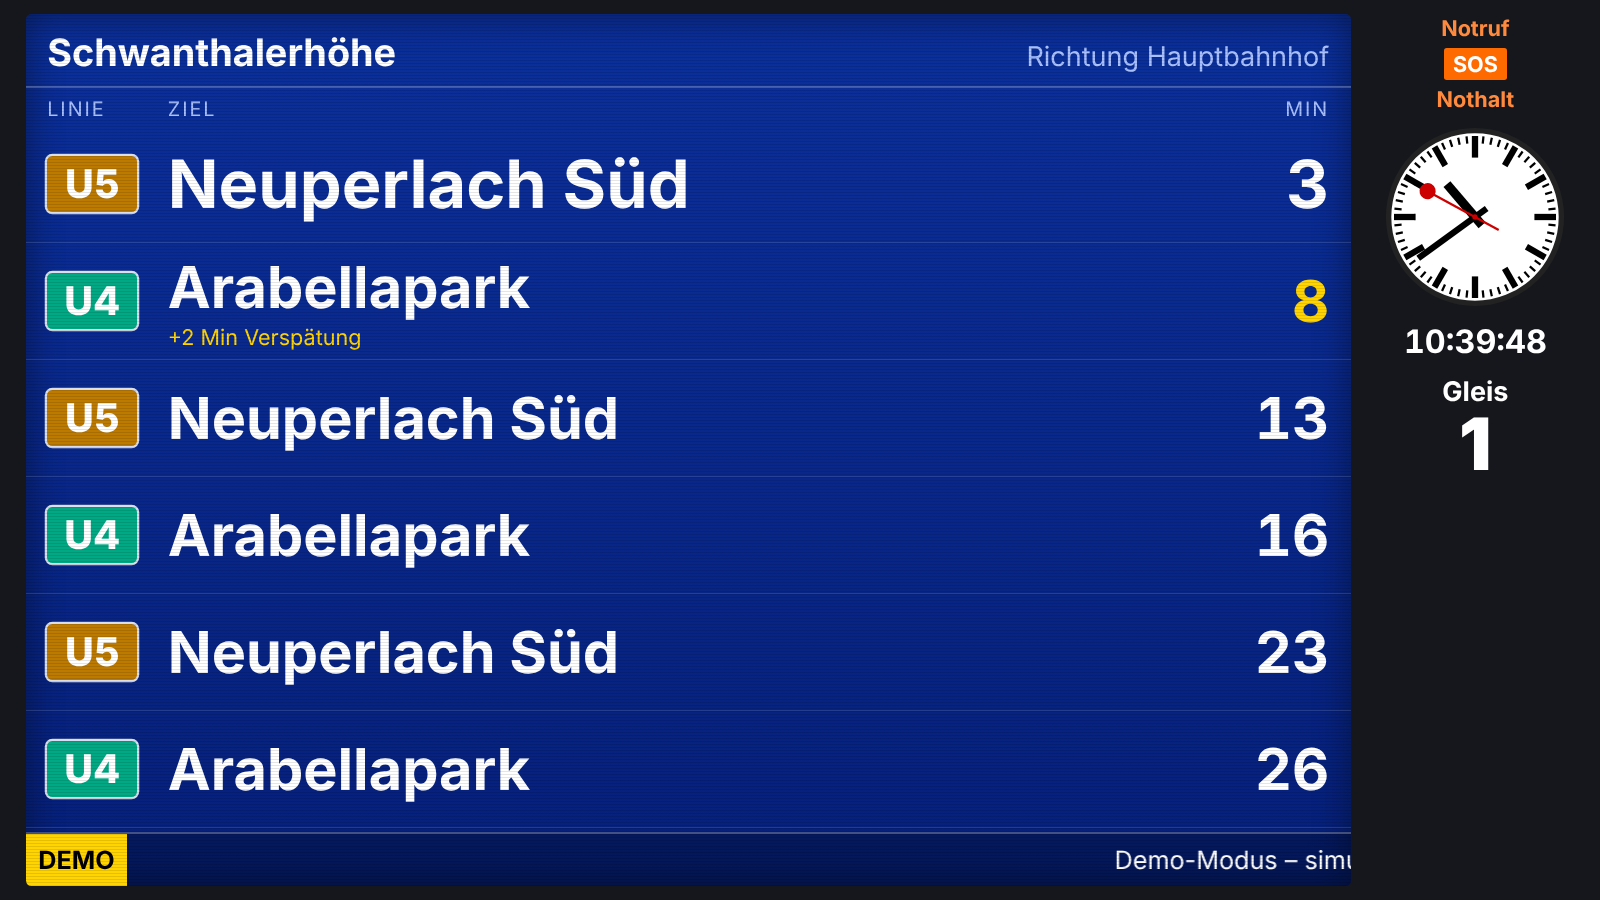
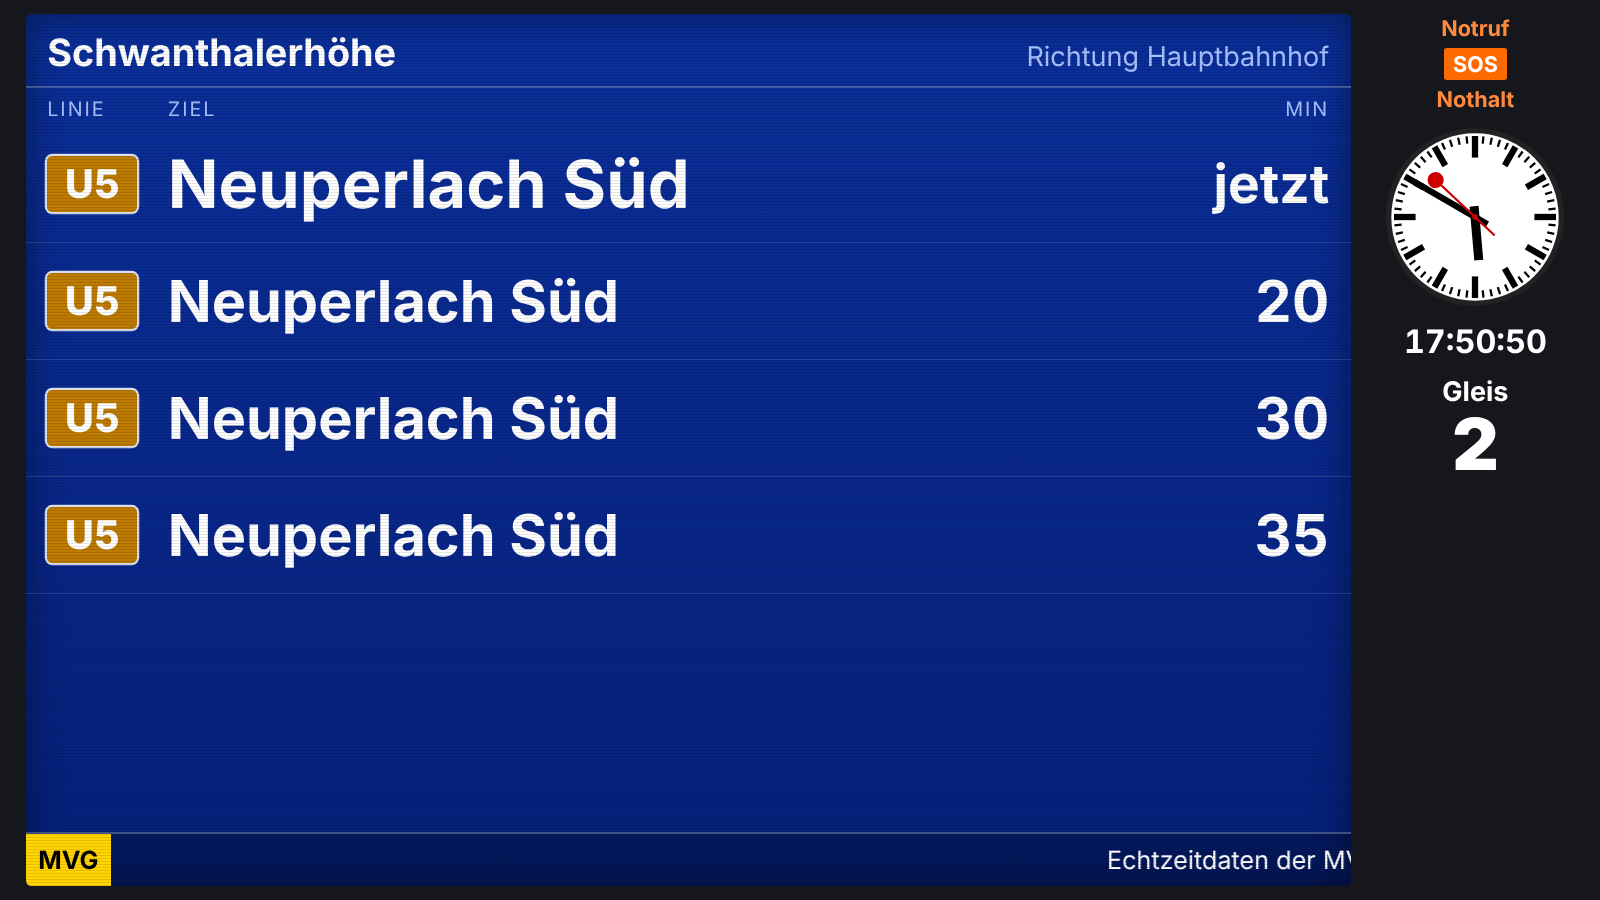
Show MVG service notices in ticker, fix 'jetzt' overflow; tested with live MVG data
Claude-Session: https://claude.ai/code/session_011tFCBa7tBnuNBM2bdwY3Tj

diff --git a/ubahn-anzeige/index.html b/ubahn-anzeige/index.html
@@ -58,7 +58,7 @@
 
   .cols, .row {
     display: grid;
-    grid-template-columns: 11vh 1fr 14vh;
+    grid-template-columns: 11vh 1fr 17vh;
     align-items: center;
     gap: 2.4vh;
     padding: 0 2.4vh;
@@ -86,7 +86,7 @@
   .dest small { display: block; font-size: 2.4vh; font-weight: 400; color: var(--accent); margin-top: .3vh; }
   .min { font-variant-numeric: tabular-nums; }
   .min.late { color: var(--accent); }
-  .min.now { animation: blink 1s steps(2, start) infinite; }
+  .min.now { animation: blink 1s steps(2, start) infinite; font-size: .8em; }
   .row.cancelled .dest, .row.cancelled .min { text-decoration: line-through; opacity: .6; }
   @keyframes blink { to { visibility: hidden; } }
 
@@ -224,8 +224,16 @@ async function load() {
       platform: d.platform != null ? String(d.platform) : "",
       realtime: d.realtime,
     }));
+    // Störungsmeldungen der MVG (falls vorhanden) ins Laufband
+    const notes = new Set();
+    j.departures.forEach(d => [...(d.messages || []), ...(d.infos || [])].forEach(m => {
+      const t = typeof m === "string" ? m : (m.message || m.text || m.title || "");
+      if (t) notes.add(t.replace(/<[^>]*>/g, "").trim());
+    }));
+    window.mvgNotes = [...notes];
     lastOk = Date.now();
-    setTicker("MVG", `Echtzeitdaten der MVG · zuletzt aktualisiert ${new Date().toLocaleTimeString("de-DE")} · Bitte zurückbleiben!`);
+    if (window.mvgNotes.length) setTicker("INFO", window.mvgNotes.join("  ·  "));
+    else setTicker("MVG", `Echtzeitdaten der MVG · zuletzt aktualisiert ${new Date().toLocaleTimeString("de-DE")} · Bitte zurückbleiben!`);
   } catch (e) {
     const stale = lastOk ? ` (Daten von ${new Date(lastOk).toLocaleTimeString("de-DE")})` : "";
     setTicker("STÖRUNG", `Keine Verbindung zur MVG${stale}: ${e.message}. Läuft server.py? Tipp: ?demo=1 für Demo-Daten.`);
